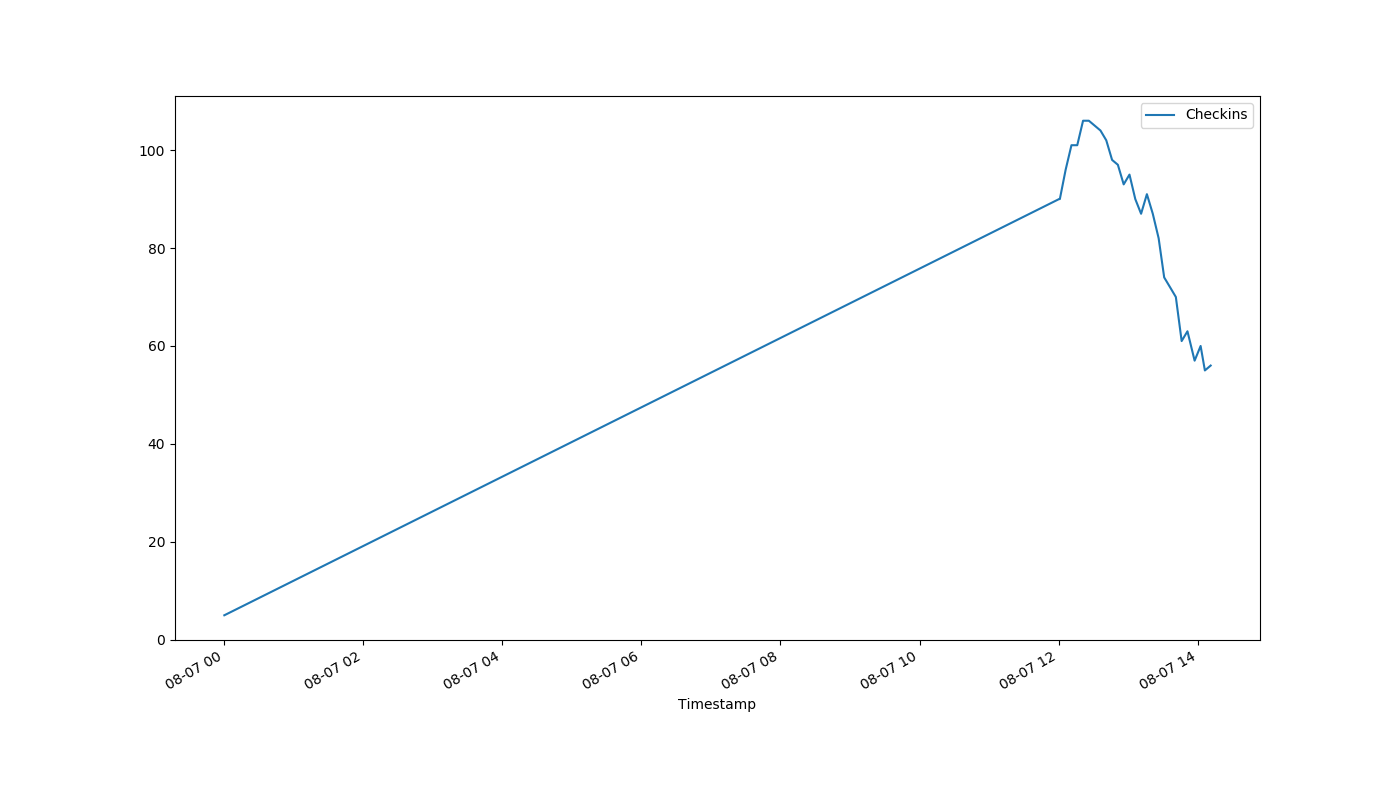
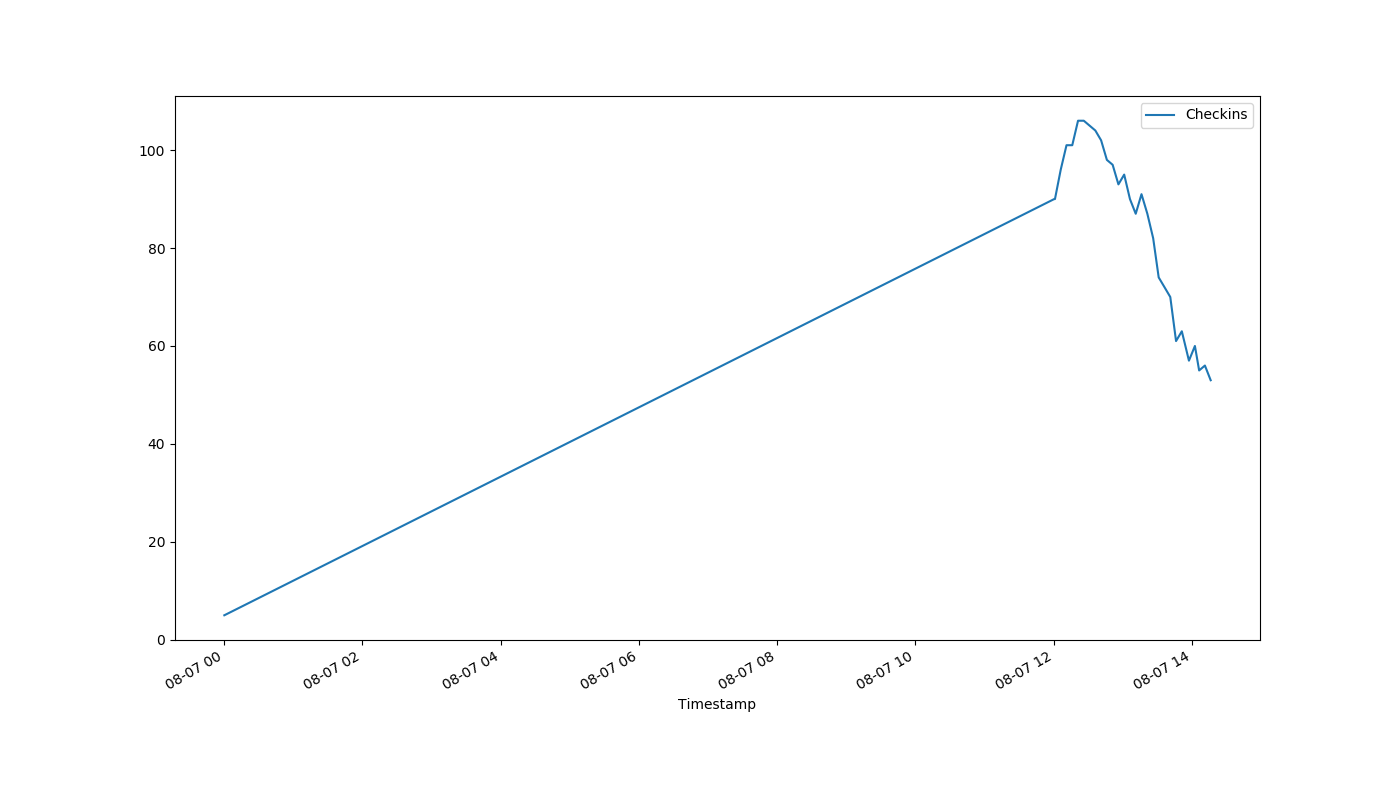
auto-Aug-07-14:17:26

diff --git a/index.html b/index.html
@@ -1,1 +1,1 @@
-<!DOCTYPE html><html><head><meta http-equiv="refresh" content="30"><link rel='stylesheet' href='holmcurrent.css'></head><body><p id='count'>56</p><div id='graph-wrap'><img id='graph' src='holmgraph-Aug-07.png'></div><p id='updated'>Last updated 14:11:14 / 14:11:08</p></body></html>
+<!DOCTYPE html><html><head><meta http-equiv="refresh" content="30"><link rel='stylesheet' href='holmcurrent.css'></head><body><p id='count'>53</p><div id='graph-wrap'><img id='graph' src='holmgraph-Aug-07.png'></div><p id='updated'>Last updated 14:16:14 / 14:16:08</p></body></html>
